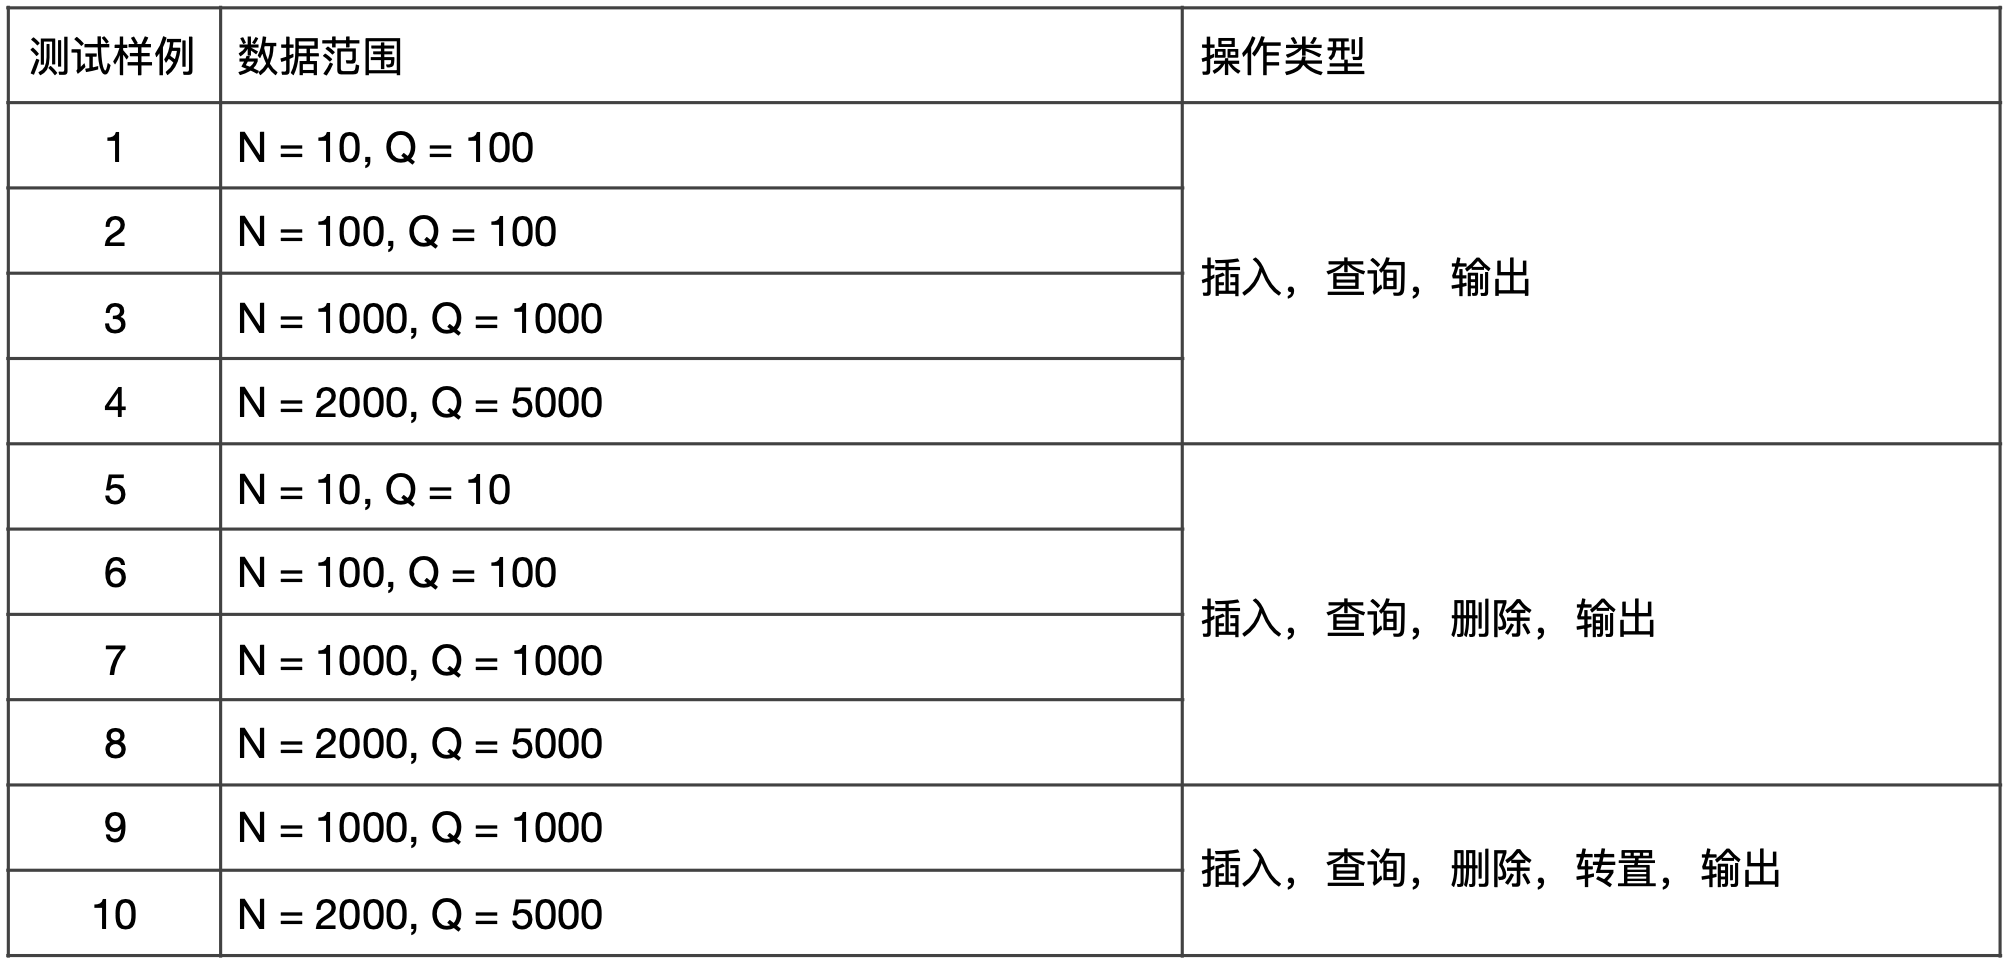
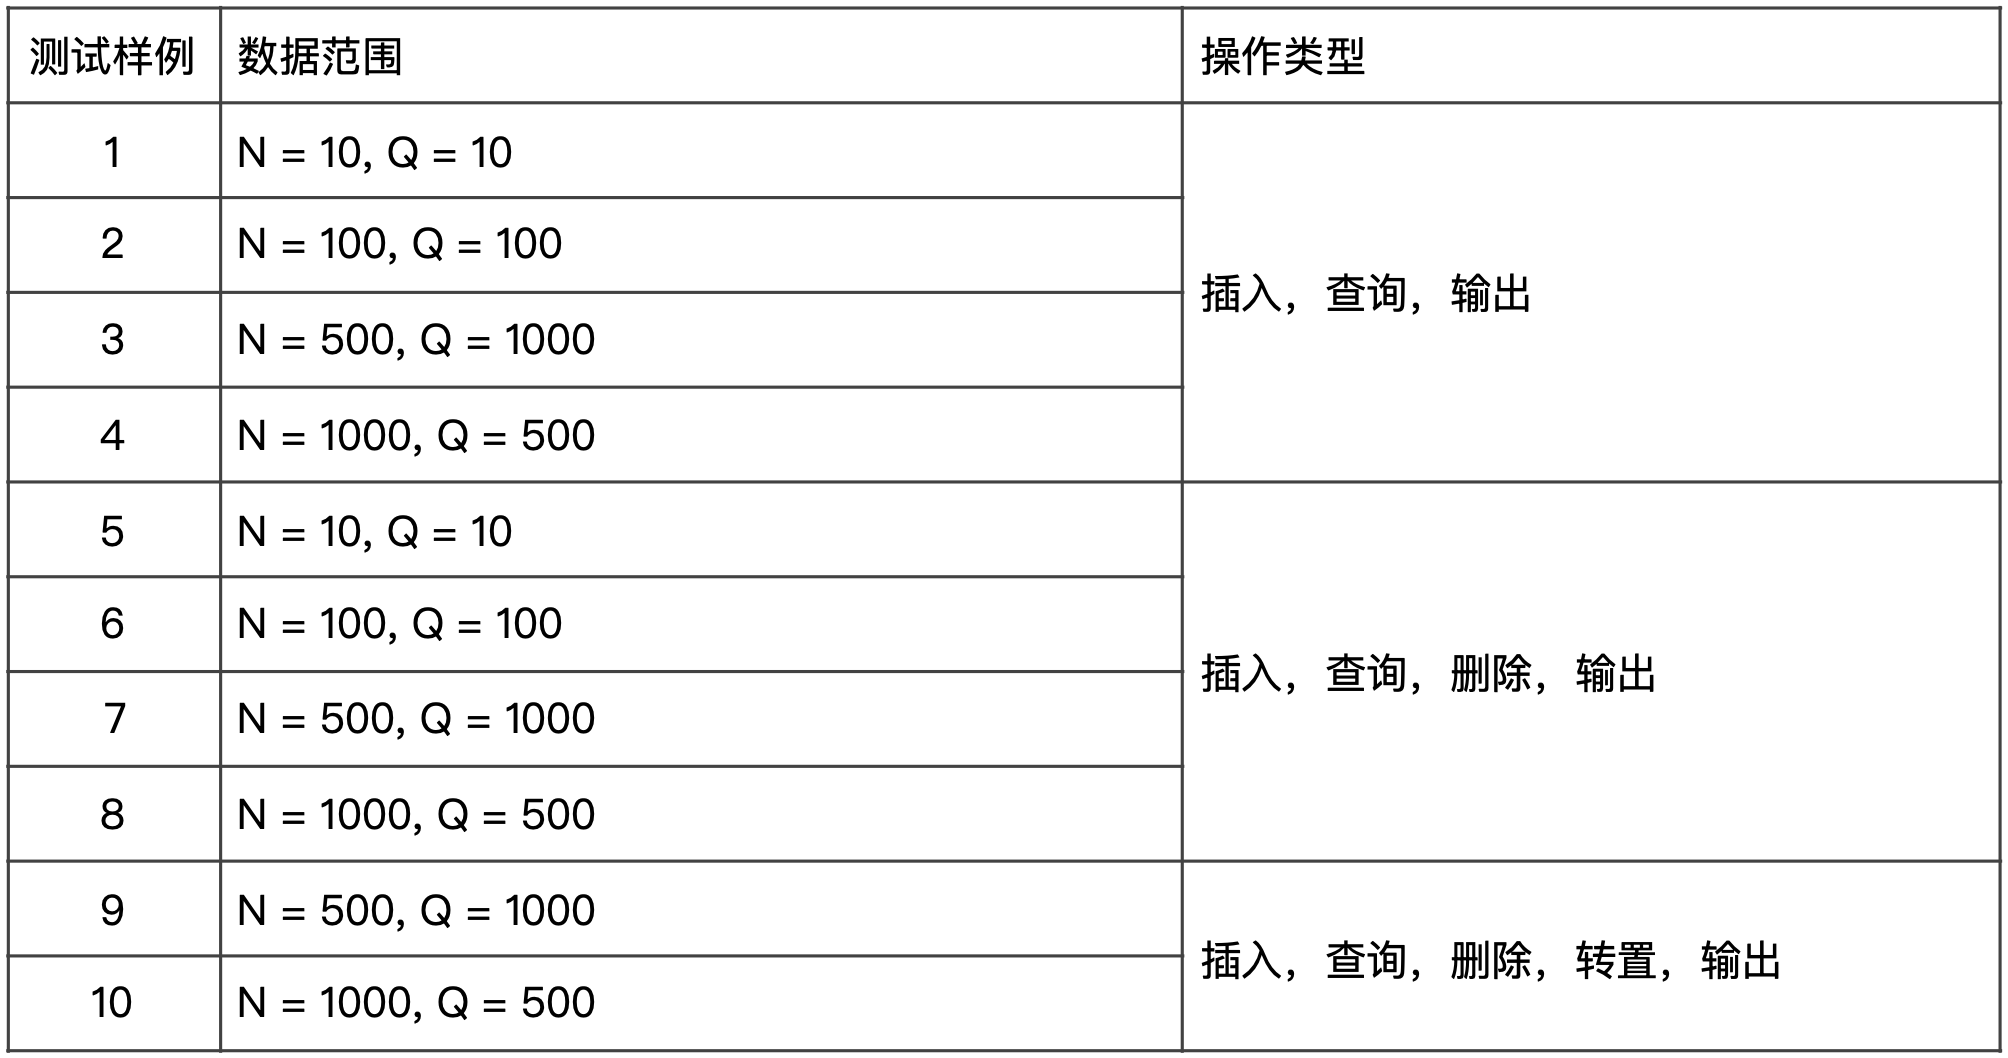
update lab4 data range

Changed region(s): [[0.0, 0.0312, 1.0, 0.9667], [0.5867, 0.8732, 0.8954, 0.9356], [0.0309, 0.9356, 0.0926, 0.9667]]

diff --git a/conf/lab4_1.py b/conf/lab4_1.py
@@ -29,13 +29,13 @@ PROBLEM_SETTINGS = [
         OP=[INSERT, QUERY, OUTPUT],
     ),
     dict(
-        N=1000,
+        N=500,
         Q=1000,
         OP=[INSERT, QUERY, OUTPUT],
     ),
     dict(
-        N=100,
-        Q=100,
+        N=1000,
+        Q=500,
         OP=[INSERT, QUERY, OUTPUT],
     ),
     dict(
@@ -49,23 +49,23 @@ PROBLEM_SETTINGS = [
         OP=[INSERT, DELETE, QUERY, OUTPUT],
     ),
     dict(
-        N=1000,
+        N=500,
         Q=1000,
         OP=[INSERT, DELETE, QUERY, OUTPUT],
     ),
     dict(
-        N=2000,
-        Q=5000,
+        N=1000,
+        Q=500,
         OP=[INSERT, DELETE, QUERY, OUTPUT],
     ),
     dict(
-        N=1000,
+        N=500,
         Q=1000,
         OP=[INSERT, DELETE, QUERY, REVERSE, OUTPUT],
     ),
     dict(
-        N=2000,
-        Q=5000,
+        N=1000,
+        Q=500,
         OP=[INSERT, DELETE, QUERY, REVERSE, OUTPUT],
     ),
 ]
